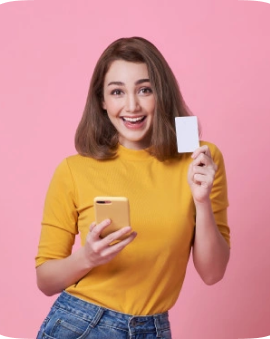
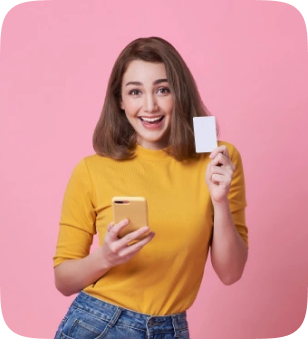
готова вторая секция

diff --git a/index.html b/index.html
@@ -165,43 +165,43 @@
                 </ul>
             </section>
     
-            <section class="section">
-                <div class="section__left">
-                    <img src="./img/work/work1.png" alt="Девушка показывает что можно расплатиться пластиковой картой">
-                    <img src="./img/work/work2.png" alt="Бумажный пакет с овощами и фруктами">
-                    <img src="./img/work/work3.png" alt="Доставщик товара с посылкой в руках">
-                    <img src="./img/work/work4.png" alt="Мандарины с листьями       ">
+            <section class="section section--type-double">
+                <div class="section__left section__gallery">
+                    <img class="section__gallery-img1" src="./img/work/work1.png" alt="Девушка показывает что можно расплатиться пластиковой картой" width="308px" height="339px">
+                    <img class="section__gallery-img2" src="./img/work/work2.png" alt="Доставщик товара с посылкой в руках" width="270px" height="317px">
+                    <img class="section__gallery-img3" src="./img/work/work3.png" alt="Бумажный пакет с овощами и фруктами" width="235px" height="270px">
+                    <img class="section__gallery-img4" src="./img/work/work4.png" alt="Мандарины с листьями " width="235px" height="295px">
                 </div>
-                <div class="section__right">
+                <div class="section__right section__howwork">
                     <h2 class="subtitle">How it Works</h2>
                     <p class="text">Lorem ipsum dolor sit amet consectetur adipisicing elit. Molestias, omnis.</p>
                     <ul class="list-advantages">
                         <li class="list-advantages__item">
                             <img src="./img/How it work/advantages1.png" alt="" class="list-advantages__img" width="62px" height="62px">
-                            <div class="list-advantages__item-desc">
-                                <p class="text">Choose Product</p>
-                                <p class="text">Lorem ipsum dolor sit amet consectetur adipisicing elit.</p>
+                            <div class="list-advantages__item-info">
+                                <p class="list-advantages__item-name">Choose Product</p>
+                                <p class="text list-advantages__text-desc">Lorem ipsum dolor sit amet consectetur.</p>
                             </div>
                         </li>
                         <li class="list-advantages__item">
                             <img src="./img/How it work/advantages2.png" alt="" class="list-advantages__img" width="62px" height="62px">
-                            <div class="list-advantages__item-desc">
-                                <p class="text">Do Payment</p>
-                                <p class="text">Lorem ipsum dolor sit amet consectetur adipisicing elit.</p>
+                            <div class="list-advantages__item-info">
+                                <p class="list-advantages__item-name">Do Payment</p>
+                                <p class="text list-advantages__text-desc">Lorem ipsum dolor sit amet consectetur.</p>
                             </div>
                         </li>
                         <li class="list-advantages__item">
                             <img src="./img/How it work/advantages3.png" alt="" class="list-advantages__img" width="62px" height="62px">
-                            <div class="list-advantages__item-desc">
-                                <p class="text">Confirmation Payment</p>
-                                <p class="text">Lorem ipsum dolor sit amet consectetur adipisicing elit.</p>
+                            <div class="list-advantages__item-info">
+                                <p class="list-advantages__item-name">Confirmation Payment</p>
+                                <p class="text list-advantages__text-desc">Lorem ipsum dolor sit amet consectetur.</p>
                             </div>
                         </li>
                         <li class="list-advantages__item">
                             <img src="./img/How it work/advantages4.png" alt="" class="list-advantages__img" width="62px" height="62px">
-                            <div class="list-advantages__item-desc">
-                                <p class="text">Order Shipped</p>
-                                <p class="text">Lorem ipsum dolor sit amet consectetur adipisicing elit.</p>
+                            <div class="list-advantages__item-info">
+                                <p class="list-advantages__item-name">Order Shipped</p>
+                                <p class="text list-advantages__text-desc">Lorem ipsum dolor sit amet consectetur.</p>
                             </div>
                         </li>
                     </ul>

diff --git a/css/section/section.css b/css/section/section.css
@@ -1,0 +1,51 @@
+.section--type-double{  /* Секции, которые разделены на 2 столбца */
+    display: flex;
+    justify-content: space-between;
+}
+
+.section__howwork{
+    width: 494px;
+    padding-left: 122px;
+}
+
+.section__gallery{
+    width: 554px;
+    height: 716px;    
+
+    display: flex;
+    flex-direction: column;
+    justify-content: center;
+    flex-wrap: wrap;
+}
+
+.section__gallery-img1{
+    margin-bottom: 30px;
+
+    width: 308px;
+    height: 339px;
+    border-radius: 34px;
+}
+
+.section__gallery-img2{
+    margin-bottom: 30px;
+
+    width: 270px;
+    height: 317px;
+    border-radius: 34px;
+}
+
+.section__gallery-img3{
+    margin-bottom: 30px;
+
+    width: 235px;
+    height: 270px;
+    border-radius: 34px;
+}
+
+.section__gallery-img4{
+    margin-bottom: 30px;
+
+    width: 235px;
+    height: 295px;
+    border-radius: 34px;
+}

diff --git a/css/list-advantages/list-advantages.css b/css/list-advantages/list-advantages.css
@@ -1,0 +1,29 @@
+.list-advantages{
+    list-style: none;
+    padding: 0;
+}
+
+.list-advantages__item{
+    margin-bottom: 40px;
+    display: flex;
+    align-items: flex-start;
+}
+
+.list-advantages__item-info{
+    margin-left: 26px;
+}
+
+.list-advantages__item-name{
+    margin: 0;
+    margin-bottom: 10px;
+
+    font-family: Poppins;
+    color: var(--dark-blue);
+    font-size: 20px;
+    line-height: 23.44px;
+    font-weight: 700;
+}
+
+.list-advantages__text-desc{
+    margin: 0;
+}
